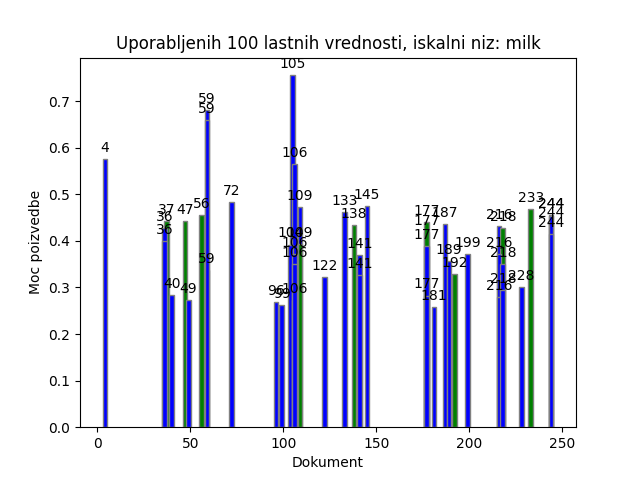
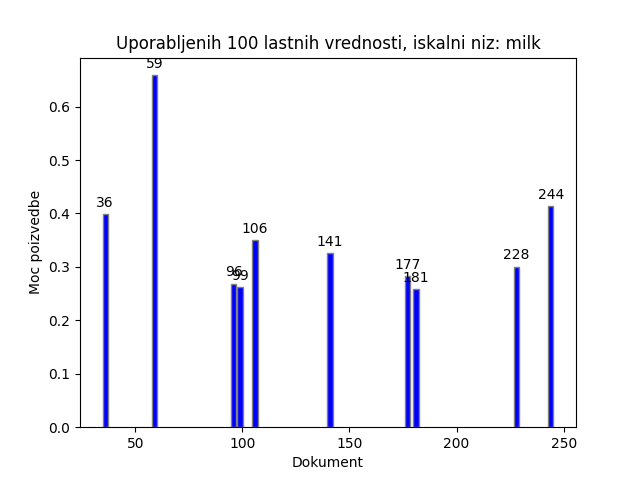
Have you thought of clearing the figure :o

diff --git a/graphs/display_graphs.py b/graphs/display_graphs.py
@@ -149,6 +149,8 @@ def plot(data_x, data_y, n_singular_value, colors):
 
   plt.savefig(f"./generated_graphs/graph_{n_singular_value}_singular_values_used.png")
 
+  plt.clf()
+
 def main():
   singular_values = [20, 50, 80, 100]
 
